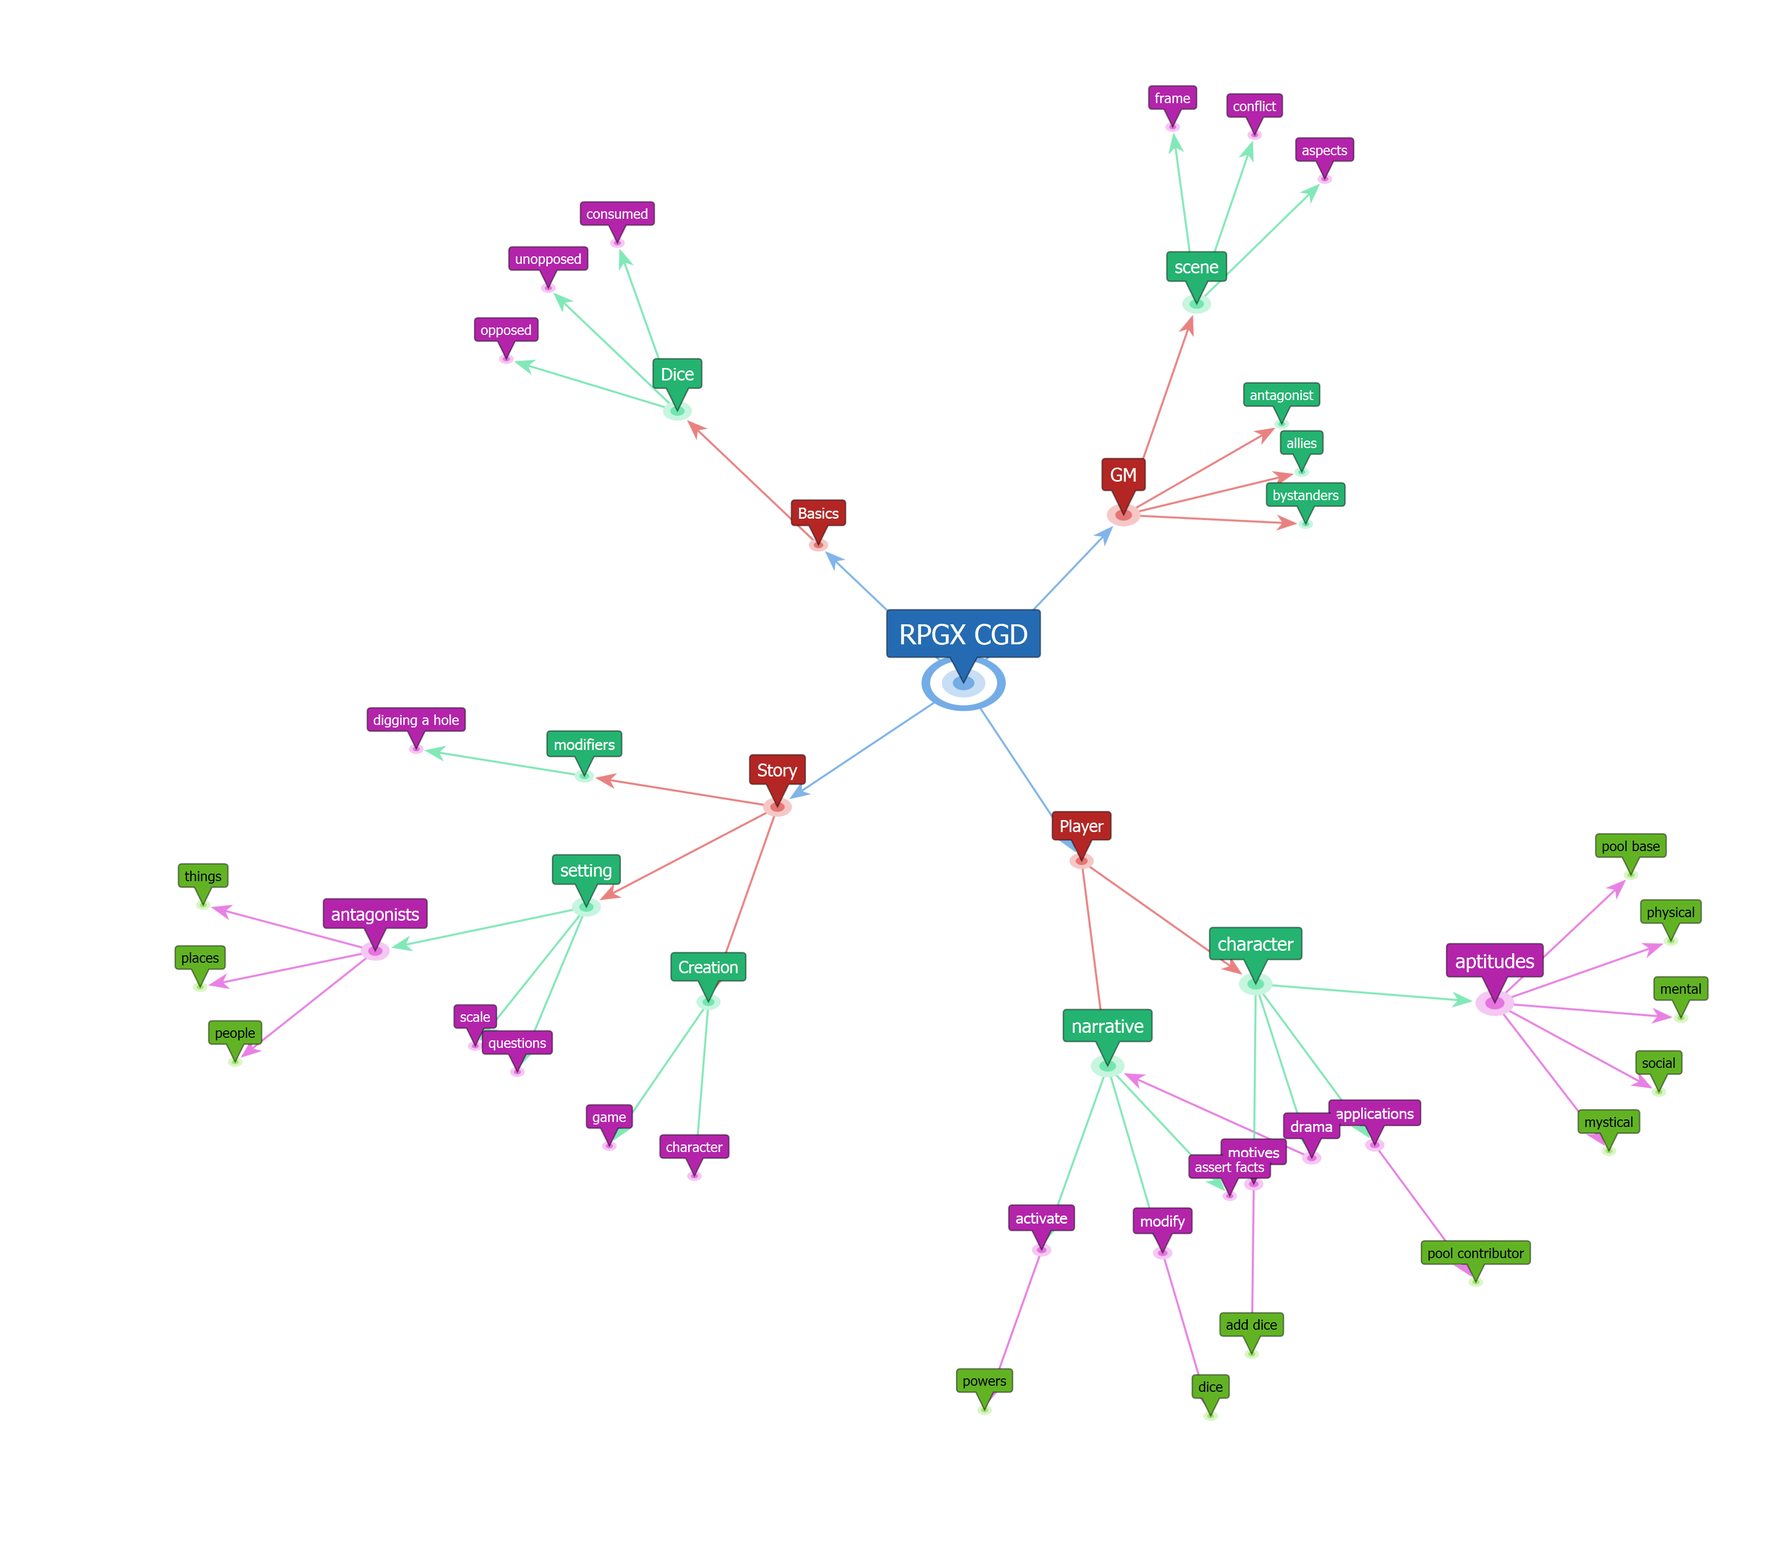
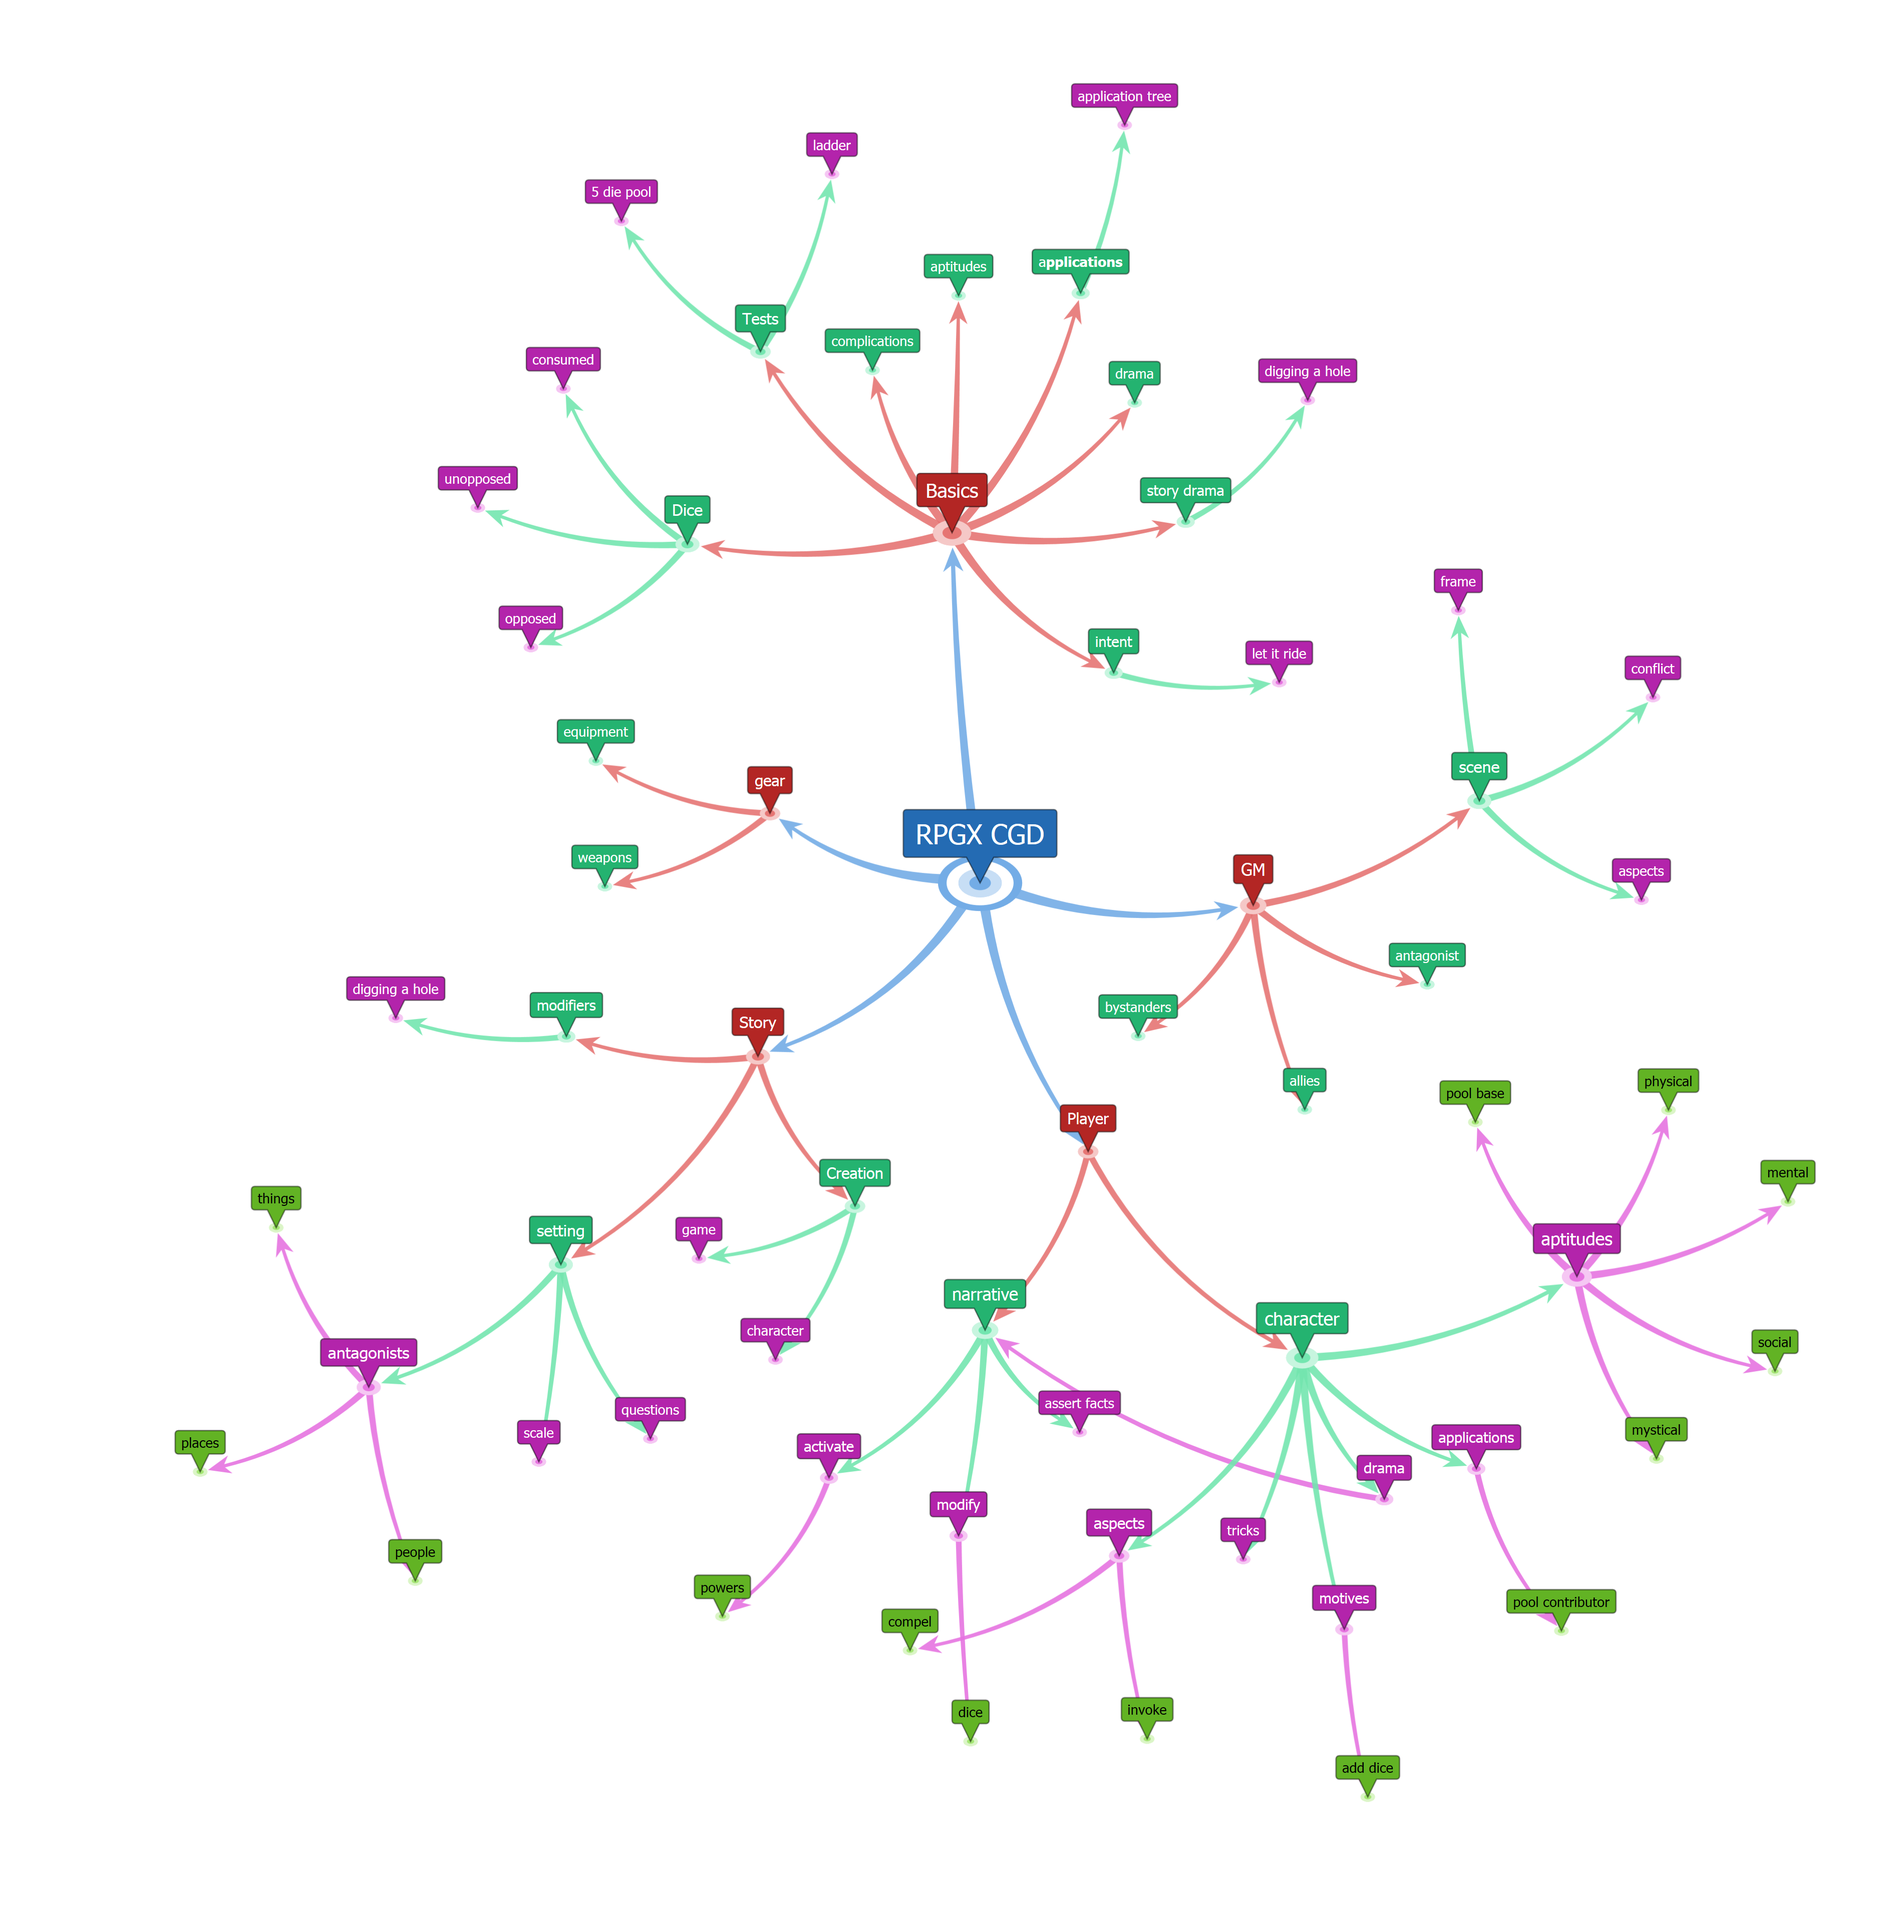
updated mindmap, reorg master TOC page

diff --git a/index.md b/index.md
@@ -1,27 +1,41 @@
 ---
 layout: page
-title: "Design Prinicples"
+title: "RPGX CGD Home"
 description: "rpg overview"
+category: "navigation"
+tags: [system,navigation]
 ---
 {% include JB/setup %}
+# The Game
+*  [Design Guidelines](./pages/design_principles/index.html)
 
-A statement of the principles we will be using to guide the game design.
+##  Basics
+* Dice
+* Tests
+* Complications
+* Aptitudes
+* Applications
+* Drama
+* Story Drama
 
-* focused on PbP play but applicable to tabletop as well.
-* modular settings (setting not wrapped into core system)
-* speed of play
-* non-flat probability curve for resolution mechanic
-* focus on story, conflict and dynamic interaction (drama/excitement)
-* rules simplicity and flexibility
-* skills based vs levels based
-* character abstracted from player
-* rewards based on character motive, and narrative progress
-* broadly competent characters
-* characters are easy to damage but hard to kill
-* immediate rewards
-* story agency for all players
-* GM free mode of play
-* "yes and" narrative mode
+## Making A Character
+* Point Buy
+* Aptitudes
+* Application Trees
+* Tricks
+* Motives
+* Aspects
+
+## Running the Game
+* Success, Failure and Complications
+* Intent and Tests 
+
+## Playing the Game
+* Digging A Hole
+
+## Gear
+* Weapons
+* Equipment
 
 Success modes:
 

diff --git a/pages/design_principles.md b/pages/design_principles.md
@@ -1,0 +1,29 @@
+---
+layout: page
+title: "Design Principles"
+description: "guides for design"
+category: "design"
+tags: [design,guideline]
+---
+{% include JB/setup %}
+
+A statement of the principles we will be using to guide the game design.
+
+* focused on PbP play but applicable to tabletop as well.
+* modular settings (setting not wrapped into core system)
+* speed of play
+* non-flat probability curve for resolution mechanic
+* focus on story, conflict and dynamic interaction (drama/excitement)
+* rules simplicity and flexibility
+* skills based vs levels based
+* character abstracted from player
+* rewards based on character motive, and narrative progress
+* broadly competent characters
+* characters are easy to damage but hard to kill
+* immediate rewards
+* story agency for all players
+* GM free mode of play
+* "yes and" narrative mode
+
+{% comment %} <!--vim: set wrap ts=8 tw=0 fileencoding=utf-8 filetype=markdown :--> {% endcomment %}
+
